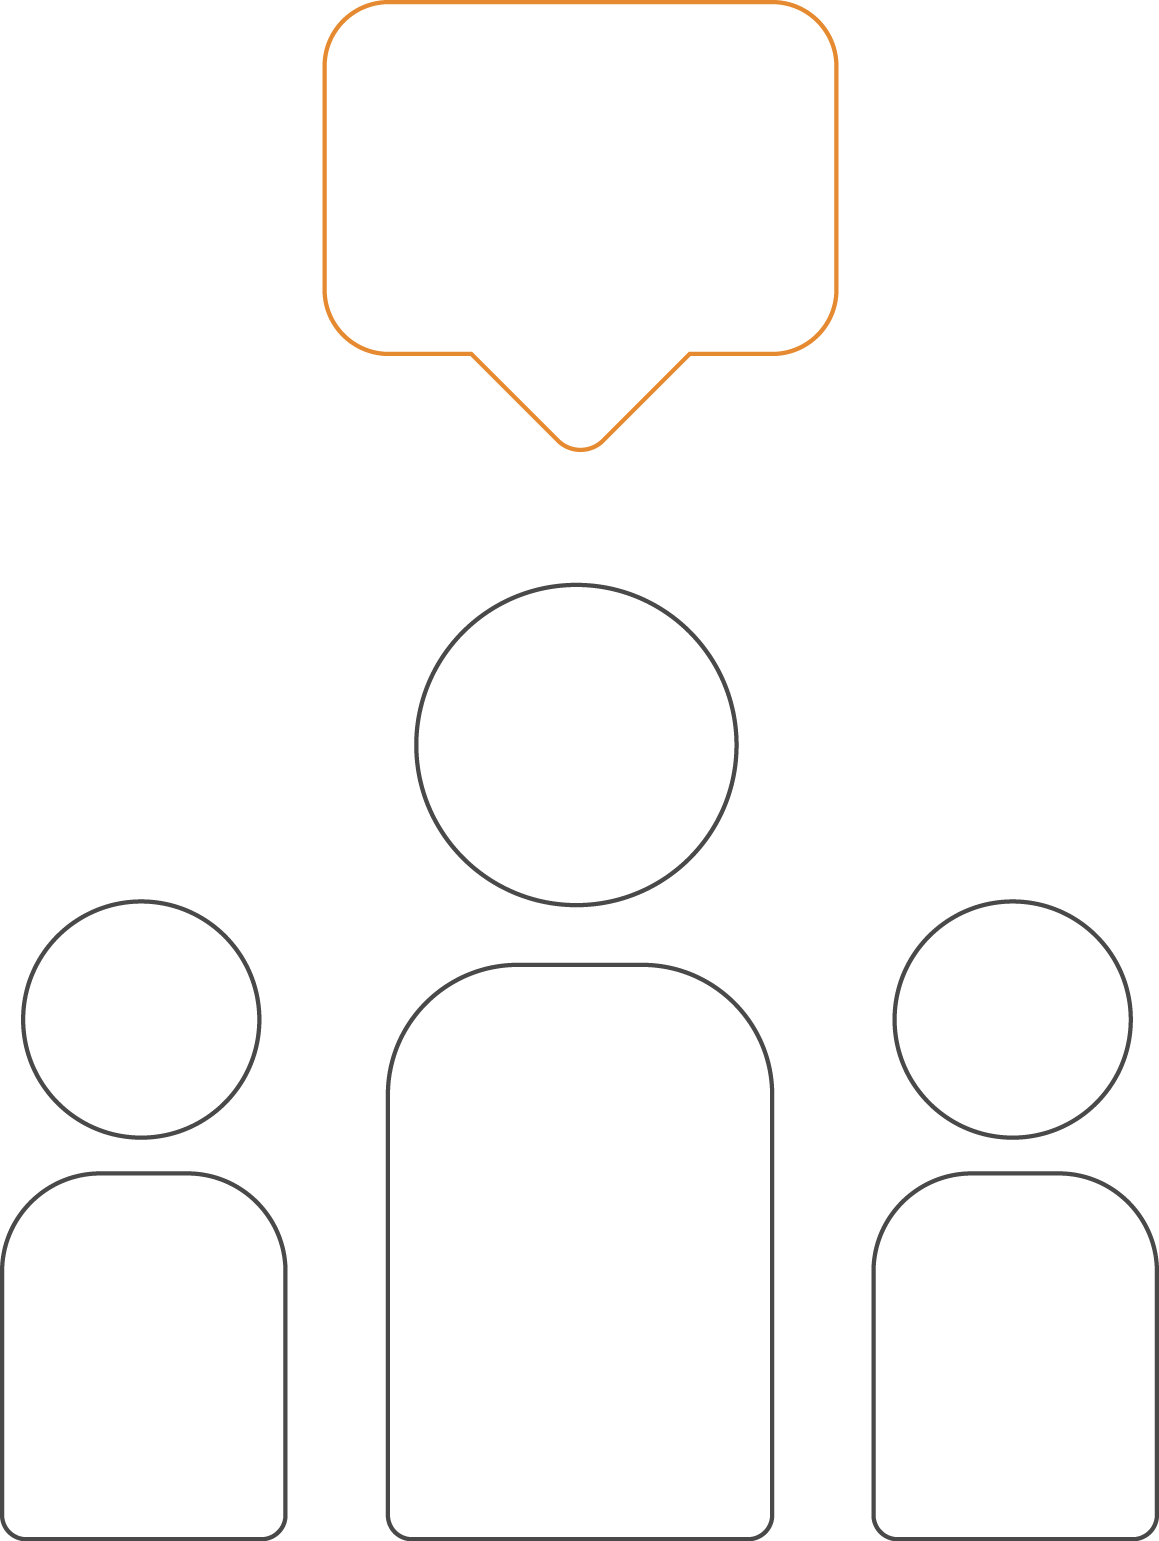
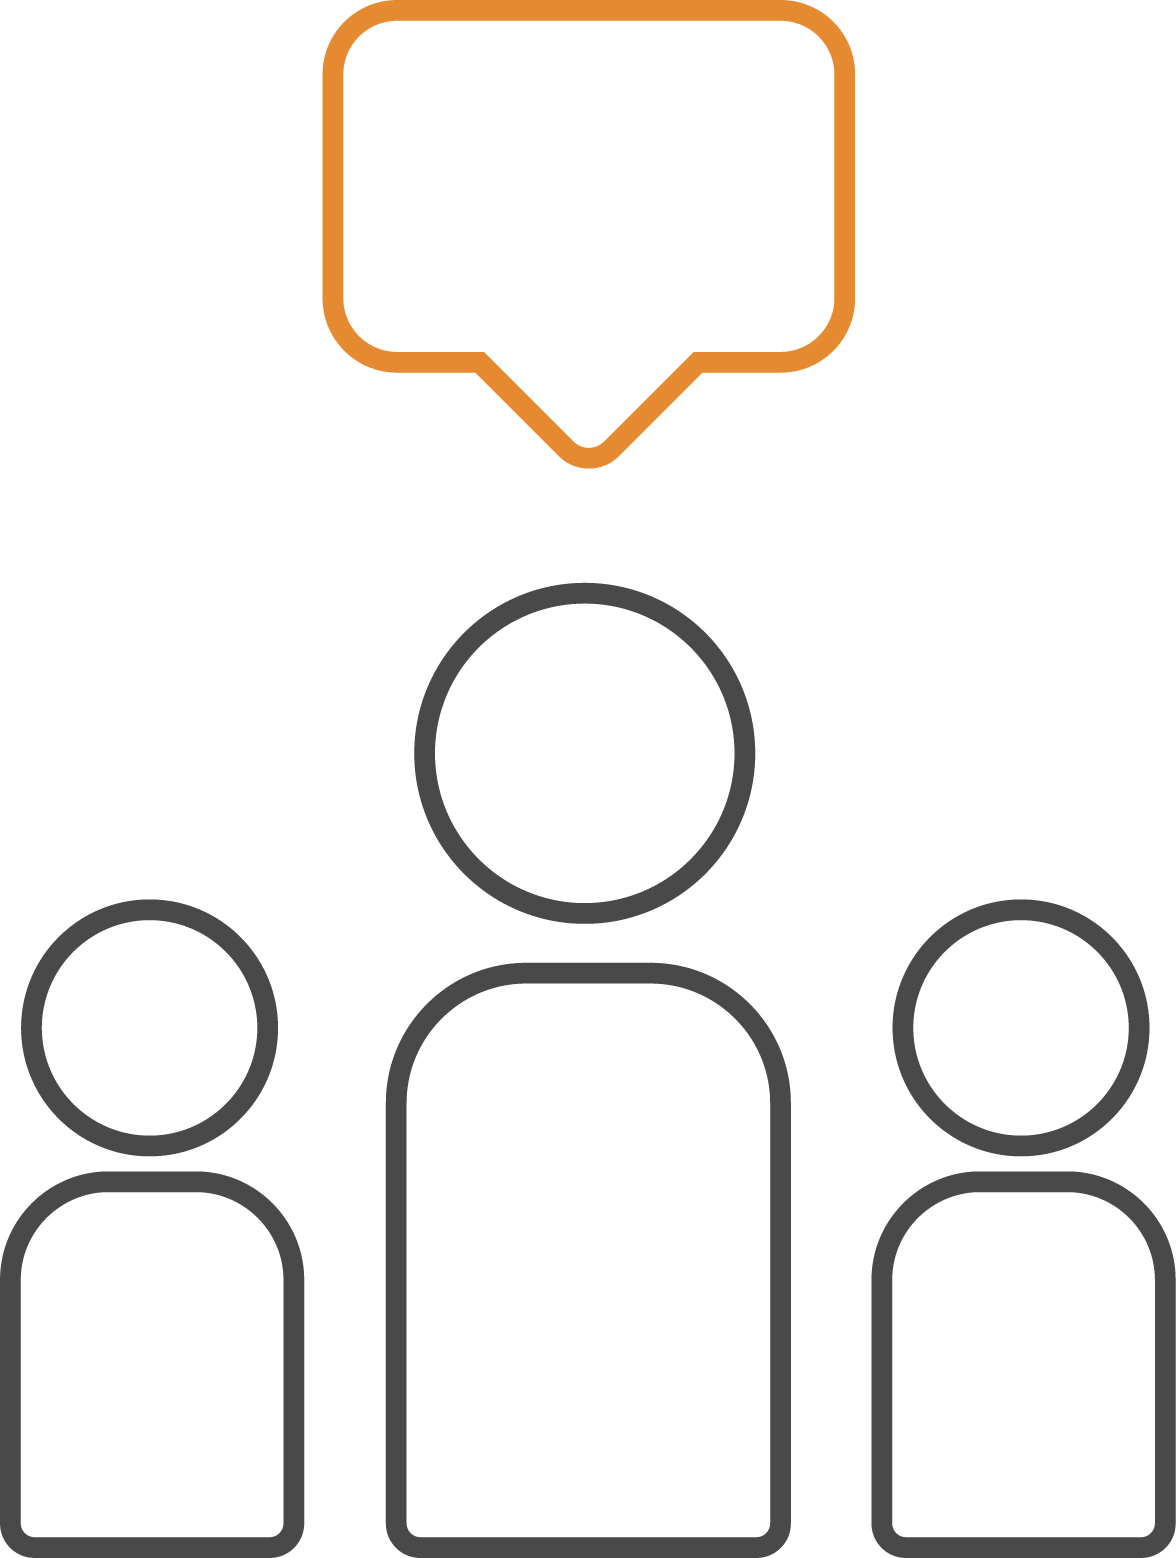
added sharper picture / styling changes

diff --git a/index.html b/index.html
@@ -15,13 +15,13 @@
     crossorigin="anonymous"></script>
     <script type='text/javascript' src='https://maxcdn.bootstrapcdn.com/bootstrap/4.0.0-beta/js/bootstrap.min.js'></script>
     <link href="https://maxcdn.bootstrapcdn.com/bootstrap/4.0.0-beta/css/bootstrap.min.css" rel="stylesheet" type="text/css">
-    <title>Document</title>
+<title>Disruptive Millennials</title>
 </head>
 <body>
     <!-- TOP HEADER SECTION -->
     <div class="hero">
             <div class="jumbotron jumbotron-fluid">
-                
+                <div class="screen"></div>
                     <div class="container" style="z-index:1">
                             <div class="column justify-content-md-center">
                                     
@@ -32,29 +32,32 @@
                                                         <h2><u>Get started <br> Redefine the 9 to 5</u></h2><br>
                                                         <p>The blueprint for millennials to create, foster and grow a business <br> that's beyond the traditional workflow</p><br><br>
                                                         <div id="mc_embed_signup">
+                                    
+                                                            <link href="https://cdn-images.mailchimp.com/embedcode/classic-10_7.css" rel="stylesheet" type="text/css">
+                                                            <div id="mc_embed_signup">
                                                             <form action="https://disruptivemillennials.us16.list-manage.com/subscribe/post?u=ae522ed9f8d689862b029e24e&amp;id=31e3dc0046" method="post" id="mc-embedded-subscribe-form" name="mc-embedded-subscribe-form" class="validate" target="_blank" novalidate>
                                                                 <div id="mc_embed_signup_scroll">
-                                                                    <h3>
-                                                                        Join our community to get access to our content and events </h3>
-                                                                    <div class="mc-field-group">
-                                                                        <input type="email" value="" name="EMAIL" class="required email" id="mce-EMAIL" placeholder="Your Email">
-                                                                    </div>
-                                                                    <div id="mce-responses" class="clear">
-                                                                        <div class="response" id="mce-error-response" style="display:none"></div>
-                                                                        <div class="response" id="mce-success-response" style="display:none"></div>
-                                                                    </div>    
-                                                                    <!-- real people should not fill this in and expect good things - do not remove this or risk form bot signups-->
-                                                                    <div style="position: absolute; left: -5000px;" aria-hidden="true"><input type="text" name="b_ae522ed9f8d689862b029e24e_31e3dc0046" tabindex="-1" value=""></div>
-                                                                    <div class="clear subscribe_clear"><input type="submit" value="Get Access" name="subscribe" id="mc-embedded-subscribe" class="button"></div>
+                                                                <h2>Subscribe to our mailing list</h2>
+                                                            <div class="indicates-required"><span class="asterisk">*</span> indicates required</div>
+                                                            <div class="mc-field-group">
+                                                                <label for="mce-EMAIL">Email Address  <span class="asterisk">*</span>
+                                                            </label>
+                                                                <input type="email" value="" name="EMAIL" class="required email" id="mce-EMAIL">
+                                                            </div>
+                                                                <div id="mce-responses" class="clear">
+                                                                    <div class="response" id="mce-error-response" style="display:none"></div>
+                                                                    <div class="response" id="mce-success-response" style="display:none"></div>
+                                                                </div>    <!-- real people should not fill this in and expect good things - do not remove this or risk form bot signups-->
+                                                                <div style="position: absolute; left: -5000px;" aria-hidden="true"><input type="text" name="b_ae522ed9f8d689862b029e24e_31e3dc0046" tabindex="-1" value=""></div>
+                                                                <div class="clear"><input type="submit" style="background-color: #FBB161"value="Subscribe" name="subscribe" id="mc-embedded-subscribe" class="button"></div>
                                                                 </div>
                                                             </form>
-                                                        </div>
-                                                        <script type='text/javascript' src='https://s3.amazonaws.com/downloads.mailchimp.com/js/mc-validate.js'></script><script type='text/javascript'>(function($) {window.fnames = new Array(); window.ftypes = new Array();fnames[0]='EMAIL';ftypes[0]='email';fnames[1]='FNAME';ftypes[1]='text';fnames[2]='LNAME';ftypes[2]='text';fnames[3]='BIRTHDAY';ftypes[3]='birthday';}(jQuery));var $mcj = jQuery.noConflict(true);</script>
+                                                            </div>
                                                     </div>
                                                 </div>
+                                            </div>
                     </div>
-                    <div class="screen"></div>
-                    </div>
+
                   </div>
 
     </div>
@@ -96,7 +99,6 @@
                 <div class="col-md-6 col-sm-12">
                     <h3>About the movement.</h3>
                     <h4>Redefining the 9 to 5</h4>
-                    <p>Disruptive Millennials is a collaborative community disrupting the 9-5 norm. We provide like-minded millennials with the blueprint to create and pursue something that's beyond the traditional workflow. 
                     </p>
                     <div id="accordion" role="tablist" aria-multiselectable="true">
                         <div class="point">
@@ -110,7 +112,7 @@
 
                             <div id="collapseOne" class="collapse" role="tabpanel" aria-labelledby="headingOne">
                                 <div class="card-block">
-                                    We host in-person events every third Saturday of the month - Join us for workshops, speakers and social events. 
+                                    Join us each month for exclusive workshops, speakers and social events.
                                 </div>
                             </div>
                         </div>
@@ -124,7 +126,7 @@
                             </div>
                             <div id="collapseTwo" class="collapse" role="tabpanel" aria-labelledby="headingTwo">
                                 <div class="card-block">
-We send out our Read and React Newsletter twice a month, containing both original content and some of the best stuff found around the web. We do the research so you don't have to. 
+                                    Everything you need to drive your business forward. We do the research so you don’t have to.  
                                 </div>
                             </div>
                         </div>
@@ -138,7 +140,7 @@ We send out our Read and React Newsletter twice a month, containing both origina
                             </div>
                             <div id="collapseThree" class="collapse" role="tabpanel" aria-labelledby="headingThree">
                                 <div class="card-block">
-                                    We host in-person events every third Saturday of the month - Join us for workshops, speakers and social events. 
+                                    Our community doubles as a support and accountability system. Receive immediate feedback and gain access to multiple personal networks.
                                 </div>
                             </div>
                         </div>
@@ -163,7 +165,7 @@ We send out our Read and React Newsletter twice a month, containing both origina
                     <div id="mc_embed_signup">
                         <form action="https://disruptivemillennials.us16.list-manage.com/subscribe/post?u=ae522ed9f8d689862b029e24e&amp;id=31e3dc0046" method="post" id="mc-embedded-subscribe-form" name="mc-embedded-subscribe-form" class="validate" target="_blank" novalidate>
                             <div id="mc_embed_signup_scroll">
-                                <h2>Sign up for our Dispruption Digest</h2>	
+                                <h2>Sign up for our Read & React Newsletter and stay up to date</h2>	
                                 <div class="mc-field-group">
                                     <input type="email" value="" name="EMAIL" class="required email" id="mce-EMAIL" placeholder="Your Email">
                                 </div>
@@ -176,12 +178,11 @@ We send out our Read and React Newsletter twice a month, containing both origina
                                 <div id="mce-responses" class="clear">
                                     <div class="response" id="mce-error-response" style="display:none"></div>
                                     <div class="response" id="mce-success-response" style="display:none"></div>
-                                </div>    <!-- real people should not fill this in and expect good things - do not remove this or risk form bot signups-->
+                                </div>   
                                 <div style="position: absolute; left: -5000px;" aria-hidden="true"><input type="text" name="b_ae522ed9f8d689862b029e24e_31e3dc0046" tabindex="-1" value=""></div>
-                                <div class="clear subscribe_clear"><input type="submit" value="Subscribe" name="subscribe" id="mc-embedded-subscribe" class="button" style="background-color:black;"></div>
+                                <div class="clear subscribe_clear"><input type="submit" value="Get Disruptive" name="subscribe" id="mc-embedded-subscribe" class="button" style="background-color:black;"></div>
                             </div>
-                        <script type='text/javascript' src='https://s3.amazonaws.com/downloads.mailchimp.com/js/mc-validate.js'></script><script type='text/javascript'>(function($) {window.fnames = new Array(); window.ftypes = new Array();fnames[0]='EMAIL';ftypes[0]='email';fnames[1]='FNAME';ftypes[1]='text';fnames[2]='LNAME';ftypes[2]='text';fnames[3]='BIRTHDAY';ftypes[3]='birthday';}(jQuery));var $mcj = jQuery.noConflict(true);</script>
-                        </form>
+                        </form> 
                     </div>
                 </div>
                 <div class="col-md-3 col-sm-12">

diff --git a/style.css b/style.css
@@ -3,12 +3,14 @@
 #mc_embed_signup form {
     padding:0 !important;
 }
+@font-face { font-family: JamesFajardo; src: url('james-fajardo.ttf'); } 
 
 .header h1 {
     padding: 16px 0;
 }
 .logo{
-	font-family: 'Roboto';
+    font-family: 'Roboto';
+    letter-spacing: 20px;
 }
 body{
 	font-family: 'Montserrat', sans-serif !important;
@@ -16,6 +18,9 @@ body{
 .hero {
     background-color: rgb(89,89,89);
     color: white;
+    font-family: 'JamesFajardo';
+    font-size: 20px;
+    letter-spacing: 4px;
 }
 a {
     color: #FA978F;
@@ -76,8 +81,9 @@ padding: 20px;
     color: rgb(89,89,89);
 }
 .selling-points .text{
-    margin-left: 40px;
+    margin-left: 80px;
     margin-top: 40px;
+    z-index:9;
 }
 .selling-points img {
     position:absolute;
@@ -86,21 +92,38 @@ padding: 20px;
     height: auto;
     top: 0;
     left:5%;
+    z-index: -5;
 }
 .about {
     background-color: rgb(240,240,240);
-        padding-top:100px;
+        padding-top:50px;
     padding-bottom:200px;
 
+}
+.about {
+font-size:12px;
+
+}
+.about h3 {
+    font-size: 18px;
+    font-weight:bold;
+    padding: 16px 0;
 }
 .about h4 {
     font-size: 18px;
     font-weight:bold;
     padding: 16px 0;
 }
+.about h5 {
+    font-size: 18px;
+    font-weight:bold;
+}
 .about a {
     color:black;
 }
+div#headingOne{margin-bottom:20px;}
+div#headingTwo{margin-bottom:20px;}
+div#headingThree{margin-bottom:20px;}
 .about a:hover{
     text-decoration:none !important;
     font-weight:bold !important;
@@ -113,6 +136,8 @@ padding: 20px;
 .about .point {
     border-bottom: 1px solid;
     padding: 8px 0;
+    font-size:12px;
+    margin-bottom: 20px;
 }
 .cta.clear.subscribe_clear {
     float: right;
@@ -153,7 +178,7 @@ padding: 20px;
     /* top: 50%; */
     width: 100%;
     z-index: 0;
-    height: 572px;
+    height: 90vh;
     background-color:black; 
     position:absolute; 
 }
